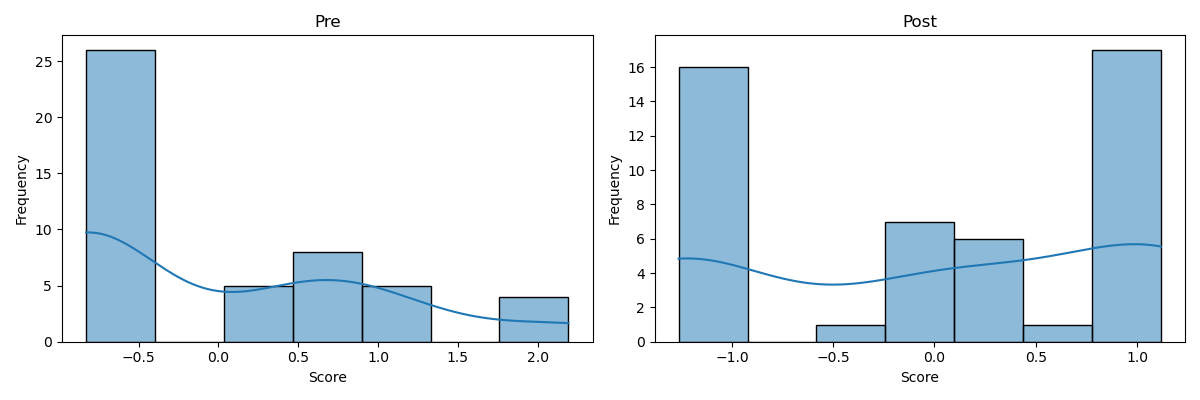
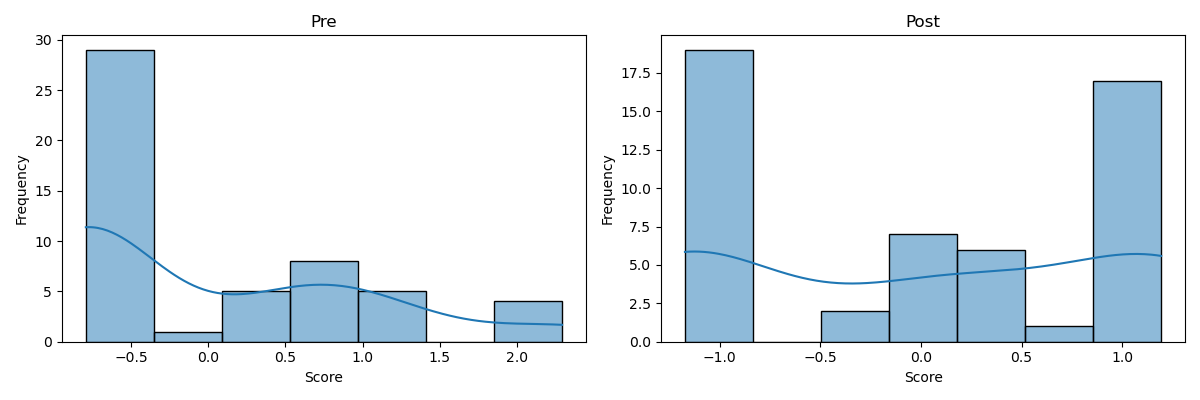
[f] Removed exclusion of users from pre-study, as this is unjustified

diff --git a/data_preparation.py b/data_preparation.py
@@ -48,8 +48,8 @@ def extract_data(study_name: str):
     raw_posttest = pd.read_excel(xlsx, "posttest")
 
     if study_name == "pre":
-        pretest = raw_pretest.loc[raw_pretest["User"] != 1]
-        posttest = raw_posttest.loc[raw_posttest["User"] != 1]
+        pretest = raw_pretest.loc[raw_pretest["User"] != 10000]
+        posttest = raw_posttest.loc[raw_posttest["User"] != 10000]
     elif study_name == "main":
         pretest = raw_pretest.loc[raw_pretest["User"] != 6]
         posttest = raw_posttest.loc[raw_posttest["User"] != 6]
